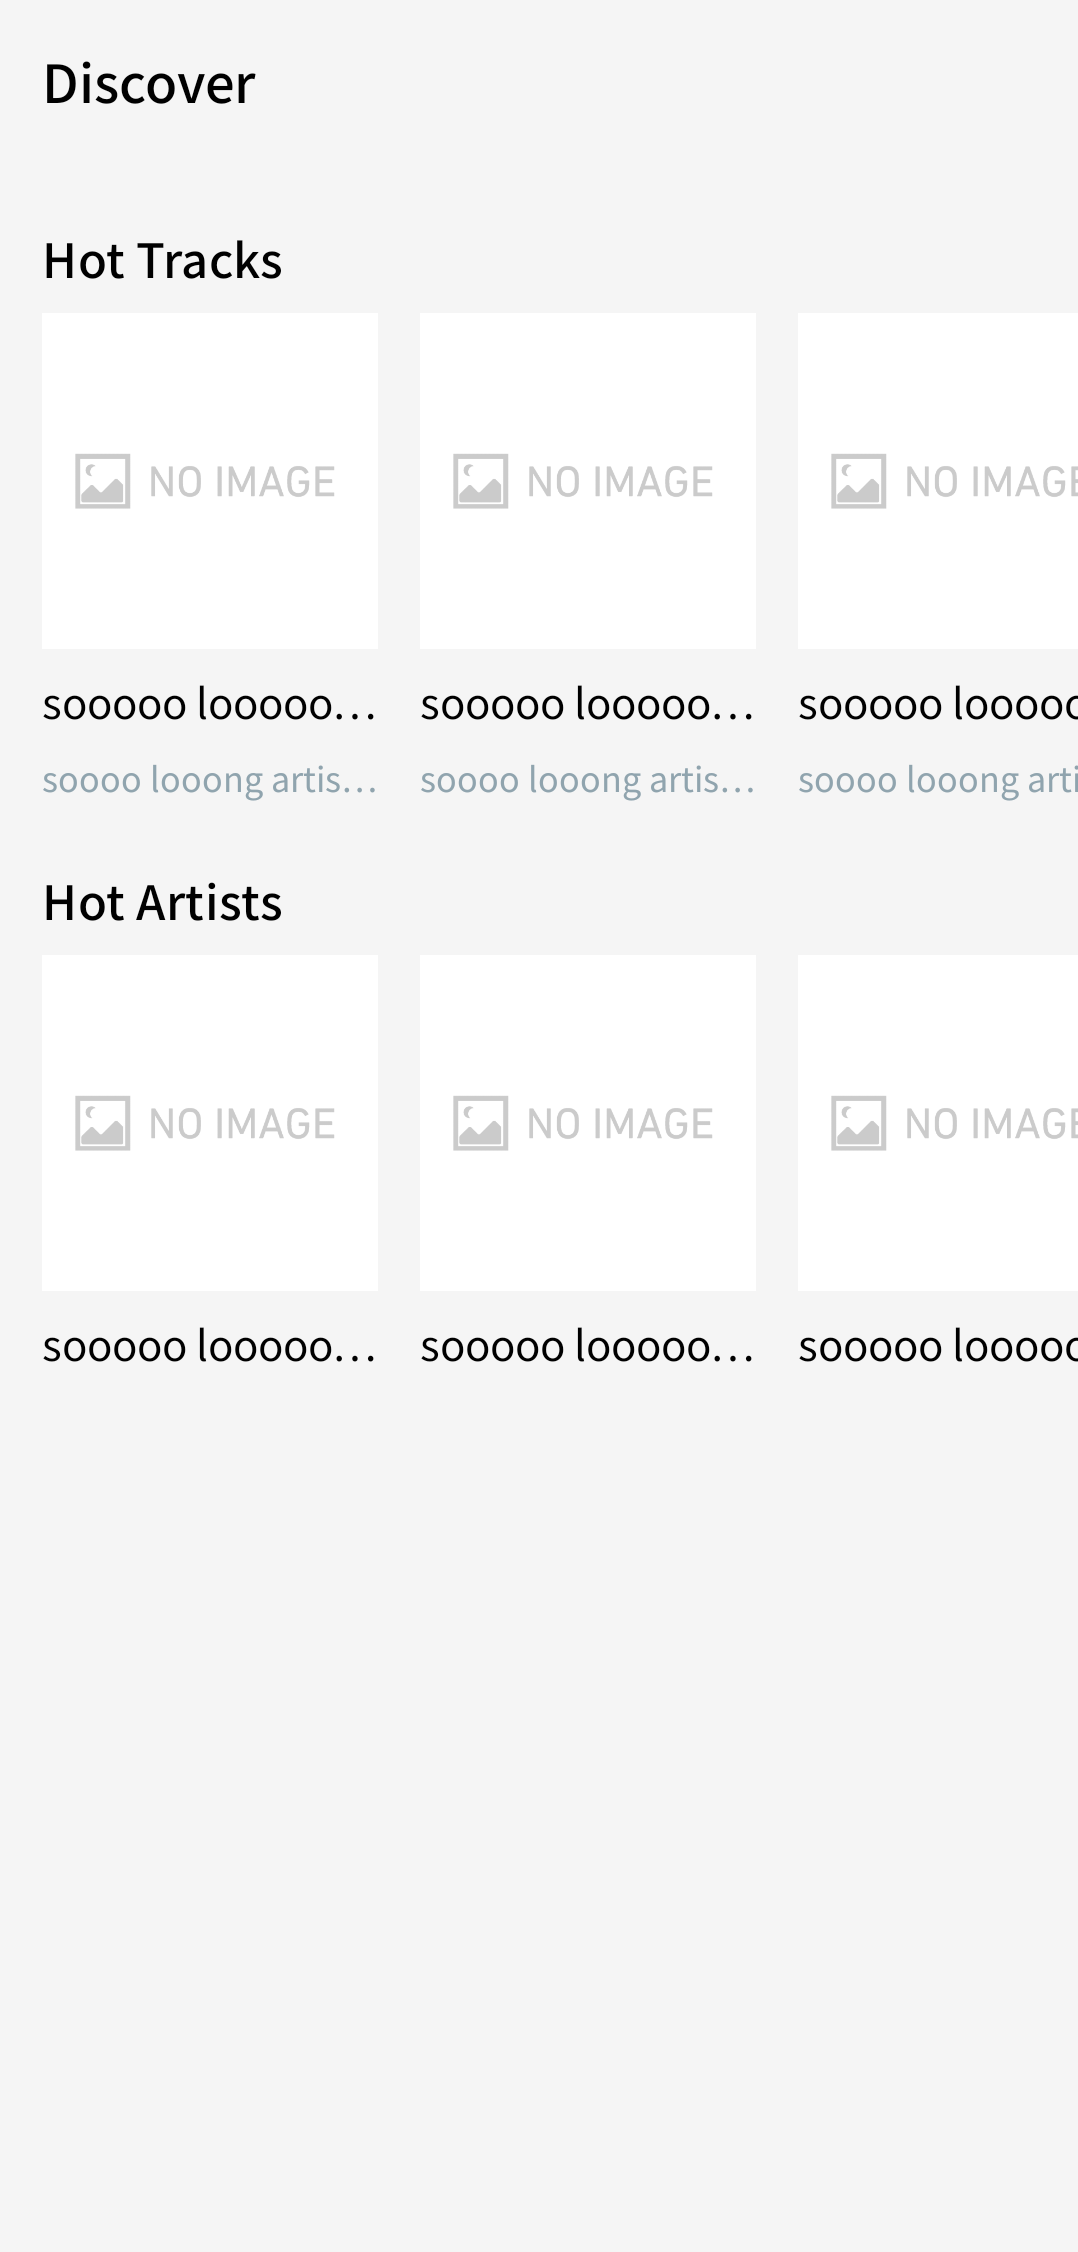
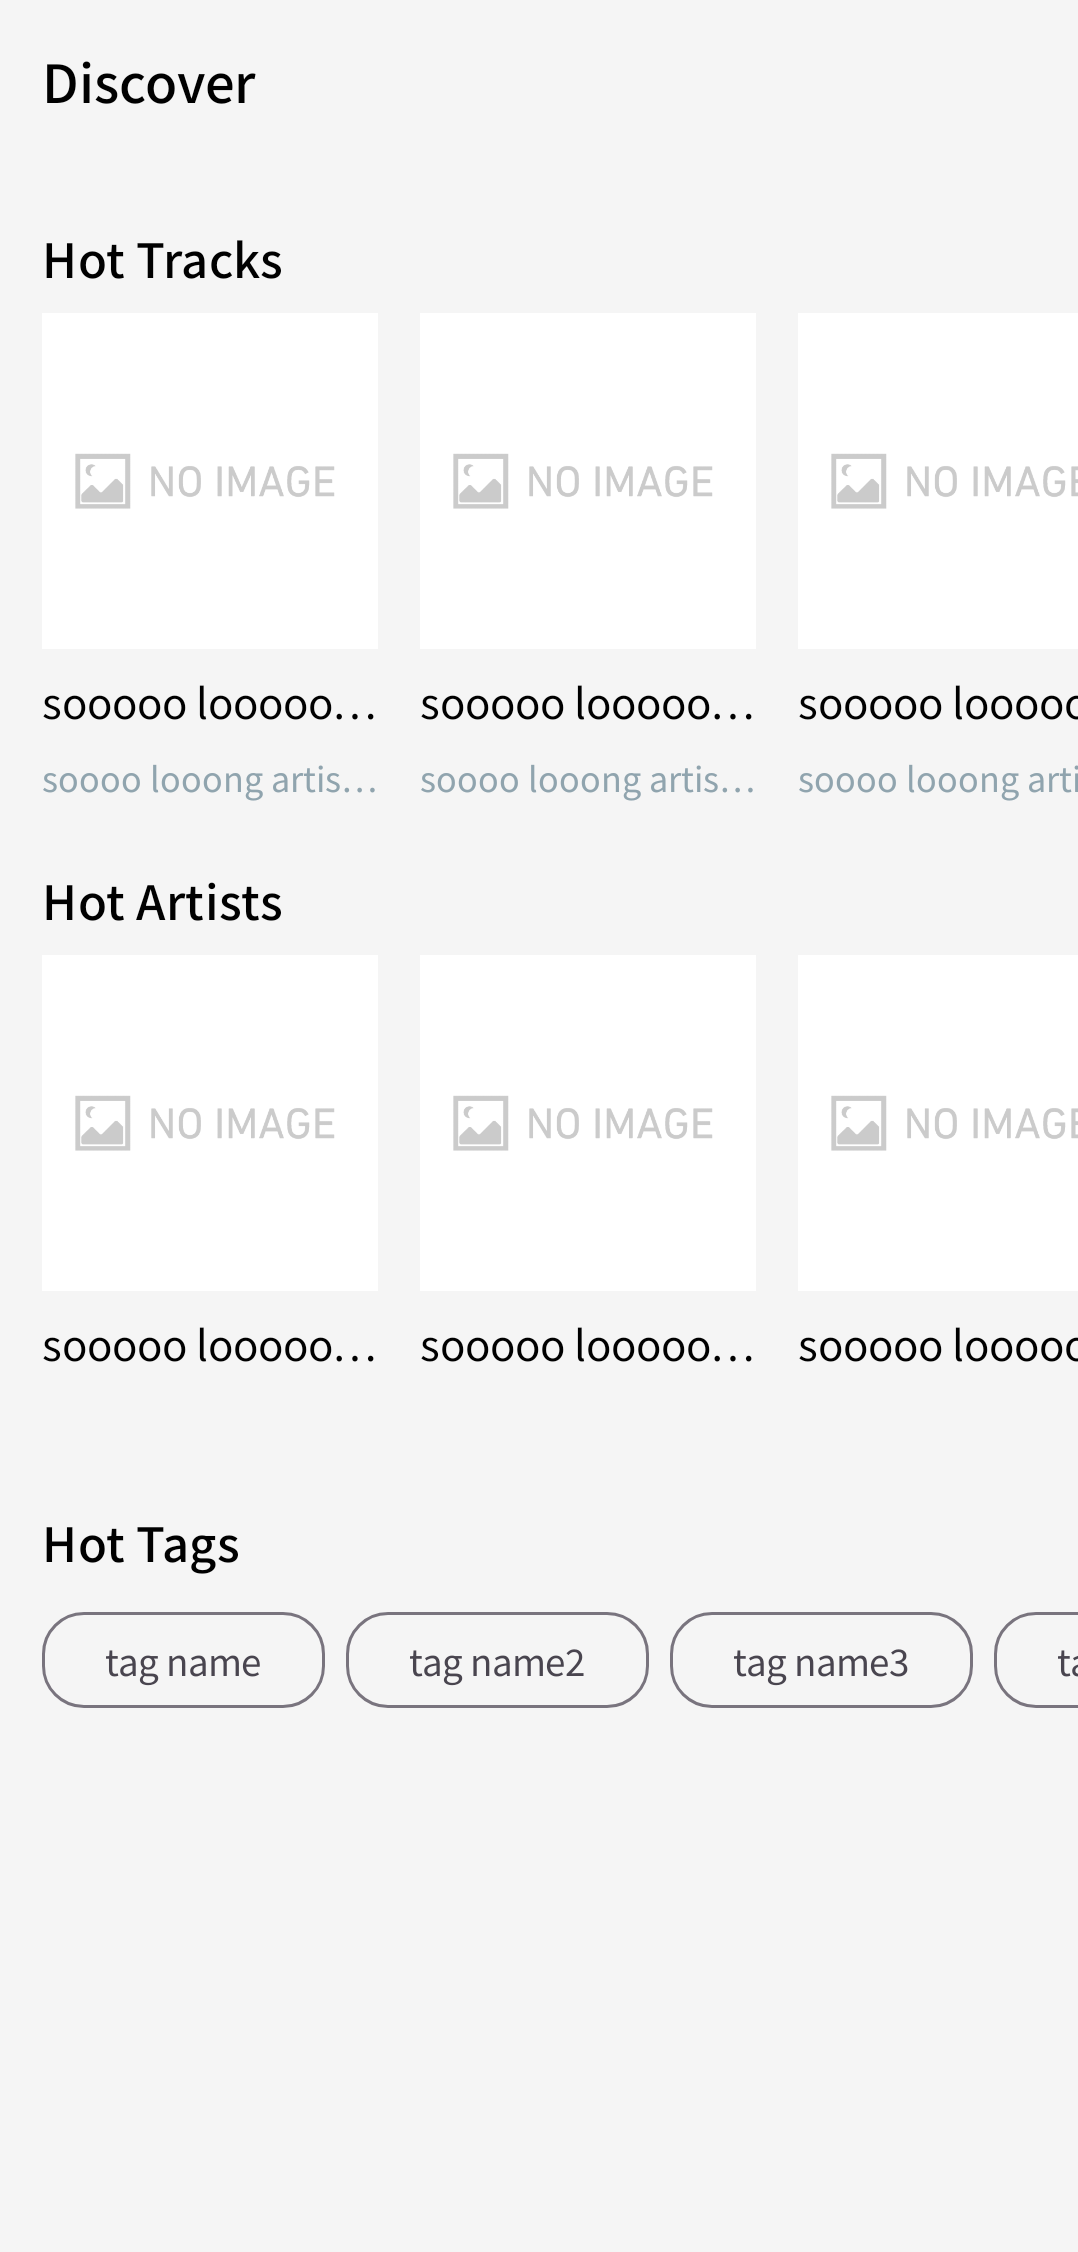
Bind top tags

diff --git a/feature/discover/src/main/java/com/mataku/scrobscrob/discover/ui/molecule/ChartTagList.kt b/feature/discover/src/main/java/com/mataku/scrobscrob/discover/ui/molecule/ChartTagList.kt
@@ -2,16 +2,61 @@ package com.mataku.scrobscrob.discover.ui.molecule
 
 import androidx.compose.foundation.layout.Column
 import androidx.compose.foundation.layout.fillMaxWidth
+import androidx.compose.foundation.layout.padding
+import androidx.compose.material3.Surface
+import androidx.compose.material3.Text
 import androidx.compose.runtime.Composable
 import androidx.compose.ui.Modifier
+import androidx.compose.ui.tooling.preview.Preview
+import androidx.compose.ui.unit.dp
+import com.mataku.scrobscrob.core.entity.Tag
+import com.mataku.scrobscrob.ui_common.SunsetTextStyle
+import com.mataku.scrobscrob.ui_common.molecule.TopTags
+import com.mataku.scrobscrob.ui_common.style.SunsetThemePreview
 
 @Composable
 internal fun ChartTagList(
-  title: String,
-  chartRow: @Composable () -> Unit
+  tagList: List<Tag>
 ) {
   Column(
     modifier = Modifier.fillMaxWidth()
   ) {
+    Text(
+      text = "Hot Tags",
+      style = SunsetTextStyle.headline,
+      maxLines = 1,
+      modifier = Modifier
+        .padding(
+          horizontal = 16.dp,
+          vertical = 8.dp
+        )
+    )
+
+    TopTags(
+      tagList = tagList
+    )
+  }
+}
+
+@Preview
+@Composable
+private fun ChartTagListPreview() {
+  SunsetThemePreview {
+    Surface {
+      ChartTagList(
+        tagList = listOf(
+          Tag("rock", ""),
+          Tag("pop", ""),
+          Tag("jazz", ""),
+          Tag("hip-hop", ""),
+          Tag("electronic", ""),
+          Tag("indie", ""),
+          Tag("folk", ""),
+          Tag("metal", ""),
+          Tag("punk", ""),
+          Tag("classical", "")
+        )
+      )
+    }
   }
 }

diff --git a/feature/discover/src/test/java/com/mataku/scrobscrob/discover/screen/DiscoverScreenTest.kt b/feature/discover/src/test/java/com/mataku/scrobscrob/discover/screen/DiscoverScreenTest.kt
@@ -10,12 +10,14 @@ import com.mataku.scrobscrob.core.entity.ChartTopTracks
 import com.mataku.scrobscrob.core.entity.ChartTrack
 import com.mataku.scrobscrob.core.entity.ChartTrackArtist
 import com.mataku.scrobscrob.core.entity.PagingAttr
+import com.mataku.scrobscrob.core.entity.Tag
 import com.mataku.scrobscrob.data.repository.ChartRepository
 import com.mataku.scrobscrob.discover.ui.screen.DiscoverScreen
 import com.mataku.scrobscrob.discover.ui.viewmodel.DiscoverViewModel
 import com.mataku.scrobscrob.test_helper.integration.captureScreenshot
 import io.mockk.every
 import io.mockk.mockk
+import kotlinx.collections.immutable.persistentListOf
 import kotlinx.coroutines.flow.flowOf
 import org.junit.Before
 import org.junit.Rule
@@ -91,6 +93,31 @@ class DiscoverScreenTest {
             total = "1",
             perPage = "1"
           )
+        )
+      )
+    )
+
+    every {
+      chartRepository.topTags(1)
+    }.returns(
+      flowOf(
+        persistentListOf(
+          Tag(
+            name = "tag name",
+            url = ""
+          ),
+          Tag(
+            name = "tag name2",
+            url = ""
+          ),
+          Tag(
+            name = "tag name3",
+            url = ""
+          ),
+          Tag(
+            name = "tag name4",
+            url = ""
+          ),
         )
       )
     )

diff --git a/feature/discover/src/main/java/com/mataku/scrobscrob/discover/ui/viewmodel/DiscoverViewModel.kt b/feature/discover/src/main/java/com/mataku/scrobscrob/discover/ui/viewmodel/DiscoverViewModel.kt
@@ -5,8 +5,8 @@ import androidx.lifecycle.ViewModel
 import androidx.lifecycle.viewModelScope
 import com.mataku.scrobscrob.core.entity.ChartArtist
 import com.mataku.scrobscrob.core.entity.ChartTrack
+import com.mataku.scrobscrob.core.entity.Tag
 import com.mataku.scrobscrob.data.repository.ChartRepository
-import com.mataku.scrobscrob.discover.ui.ChartType
 import dagger.hilt.android.lifecycle.HiltViewModel
 import kotlinx.collections.immutable.ImmutableList
 import kotlinx.collections.immutable.persistentListOf
@@ -64,12 +64,26 @@ class DiscoverViewModel @Inject constructor(
         }
       }
       .launchIn(viewModelScope)
+
+    chartRepository.topTags(requestPage)
+      .catch {
+
+      }
+      .onEach {
+        uiState.update { state ->
+          state.copy(
+            topTags = it.toImmutableList()
+          )
+        }
+      }
+      .launchIn(viewModelScope)
   }
-  
+
   @Immutable
   data class DiscoverUiState(
     val isLoading: Boolean = false,
     val topArtists: ImmutableList<ChartArtist> = persistentListOf(),
     val topTracks: ImmutableList<ChartTrack> = persistentListOf(),
+    val topTags: ImmutableList<Tag> = persistentListOf()
   )
 }

diff --git a/feature/discover/src/main/java/com/mataku/scrobscrob/discover/ui/screen/DiscoverScreen.kt b/feature/discover/src/main/java/com/mataku/scrobscrob/discover/ui/screen/DiscoverScreen.kt
@@ -12,6 +12,7 @@ import androidx.compose.ui.unit.dp
 import androidx.hilt.navigation.compose.hiltViewModel
 import androidx.navigation.NavController
 import com.mataku.scrobscrob.discover.ui.molecule.ChartArtistList
+import com.mataku.scrobscrob.discover.ui.molecule.ChartTagList
 import com.mataku.scrobscrob.discover.ui.molecule.ChartTrackList
 import com.mataku.scrobscrob.discover.ui.viewmodel.DiscoverViewModel
 import com.mataku.scrobscrob.ui_common.navigateToWebView
@@ -56,6 +57,14 @@ fun DiscoverScreen(
             navController.navigateToWebView(it.url)
           }
         )
+      }
+    }
+
+    if (uiState.topTags.isNotEmpty()) {
+      item(
+        key = "chart_top_tags"
+      ) {
+        ChartTagList(tagList = uiState.topTags)
       }
     }
   }

diff --git a/data/repository/src/main/java/com/mataku/scrobscrob/data/repository/ChartRepository.kt b/data/repository/src/main/java/com/mataku/scrobscrob/data/repository/ChartRepository.kt
@@ -23,7 +23,7 @@ interface ChartRepository {
 
   fun topTracks(page: Int): Flow<ChartTopTracks>
 
-  fun topTags(page: Int): Flow<List<Tag>>
+  fun topTags(page: Int): Flow<ImmutableList<Tag>>
 }
 
 @Singleton
